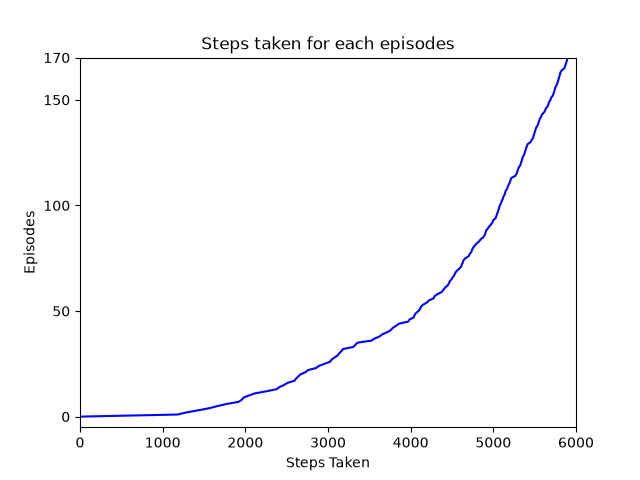
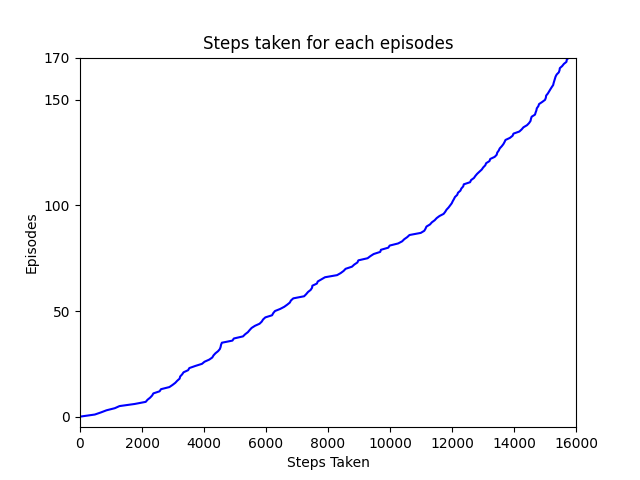
implemented stochastic windy gridworld
- Experimenting with pygame to render last episode only (in progress)

diff --git a/temporal_difference/windy_gridworld/windy-gridworld-gym/gymnasium_env/envs/windy_gridworld.py b/temporal_difference/windy_gridworld/windy-gridworld-gym/gymnasium_env/envs/windy_gridworld.py
@@ -25,6 +25,9 @@ class WindyGridWorld(gym.Env):
         self.y_size = y_size
         self.window_size = 512
         self.action = 0
+        self.stochastic = False
+        self.render_path = ""
+        self.last_episode = 0
 
         self.observation_space = spaces.Dict(
             {
@@ -105,9 +108,12 @@ class WindyGridWorld(gym.Env):
         # For the effects of being in certain x-axis that causes increase in y-axis
         env_influence = np.array([0, 0])
         if self._agent_location[1] in [3, 4, 5, 8]:
-            env_influence = np.array([-1, 0])
+            env_influence += np.array([-1, 0])
         elif self._agent_location[1] in [6, 7]:
-            env_influence = np.array([-2, 0])
+            env_influence += np.array([-2, 0])
+        if self.stochastic:
+            # add stochastic wind if true
+            env_influence += np.array([np.random.randint(-1, 2), 0])
 
         # Move agent as follows based off action and env influence
         self._agent_location = np.clip(
@@ -132,25 +138,25 @@ class WindyGridWorld(gym.Env):
 
     def arrow_flipper(self, arrow, direction):
         match direction:
-            case 1: # Down
+            case 1:  # Down
                 arrow[0][1] += self.pix_square_size[1]
-            case 2: # Left
+            case 2:  # Left
                 arrow[1][0] -= self.pix_square_size[0] / 2
                 arrow[1][1] += self.pix_square_size[1] / 2
-            case 3: # Right
+            case 3:  # Right
                 arrow[2][0] += self.pix_square_size[0] / 2
                 arrow[2][1] += self.pix_square_size[1] / 2
-            case 4: # Left-up
+            case 4:  # Left-up
                 arrow[1][0] -= self.pix_square_size[0]
                 arrow[1][1] -= self.pix_square_size[1] / 2
-            case 5: # Right-up
+            case 5:  # Right-up
                 arrow[2][0] += self.pix_square_size[0]
                 arrow[2][1] -= self.pix_square_size[1] / 2
-            case 6: # Left-down
+            case 6:  # Left-down
                 arrow[0][1] += self.pix_square_size[1]
                 arrow[1][0] -= self.pix_square_size[0]
                 arrow[1][1] += self.pix_square_size[1] / 2
-            case 7: # Right-down
+            case 7:  # Right-down
                 arrow[0][1] += self.pix_square_size[1]
                 arrow[2][0] += self.pix_square_size[0]
                 arrow[2][1] += self.pix_square_size[1] / 2
@@ -204,23 +210,33 @@ class WindyGridWorld(gym.Env):
 
         # Draw arrow NOTE: Current_location is default pointing up
         current_location = [
-            [(self.pix_square_size[0] * (self._agent_location[1] + 1)) - self.pix_square_size[0]/2, self.pix_square_size[1] * self._agent_location[0]], # Top point
-            [(self.pix_square_size[0] * (self._agent_location[1] + 1)), self.pix_square_size[1] * (self._agent_location[0] + 1) - self.pix_square_size[1]/2], # Right point
-            [self.pix_square_size[0] * (self._agent_location[1]), (self.pix_square_size[1] * (self._agent_location[0] + 1)) - self.pix_square_size[1]/2], # Left point
-            ]
-        
+            [
+                (self.pix_square_size[0] * (self._agent_location[1] + 1))
+                - self.pix_square_size[0] / 2,
+                self.pix_square_size[1] * self._agent_location[0],
+            ],  # Top point
+            [
+                (self.pix_square_size[0] * (self._agent_location[1] + 1)),
+                self.pix_square_size[1] * (self._agent_location[0] + 1)
+                - self.pix_square_size[1] / 2,
+            ],  # Right point
+            [
+                self.pix_square_size[0] * (self._agent_location[1]),
+                (self.pix_square_size[1] * (self._agent_location[0] + 1))
+                - self.pix_square_size[1] / 2,
+            ],  # Left point
+        ]
+
         if self.action == 8:
             pygame.draw.circle(
                 canvas,
                 (0, 0, 255),
                 (self._agent_location[::-1] + 0.5) * self.pix_square_size,
-                (self.pix_square_size[0] + self.pix_square_size[1]) / 8
+                (self.pix_square_size[0] + self.pix_square_size[1]) / 8,
             )
         else:
             pygame.draw.polygon(
-                canvas,
-                (0, 0, 255),
-                self.arrow_flipper(current_location, self.action)
+                canvas, (0, 0, 255), self.arrow_flipper(current_location, self.action)
             )
 
         # Gridlines
@@ -237,7 +253,7 @@ class WindyGridWorld(gym.Env):
             pygame.draw.line(
                 canvas,
                 0,
-                (0 ,self.pix_square_size[1] * y),
+                (0, self.pix_square_size[1] * y),
                 (self.window_size, self.pix_square_size[1] * y),
                 width=3,
             )
@@ -254,6 +270,8 @@ class WindyGridWorld(gym.Env):
             return np.transpose(
                 np.array(pygame.surfarray.pixels3d(canvas)), axes=(1, 0, 2)
             )
+        if episode == self.last_episode - 1:
+            pygame.image.save(canvas, self.render_path / "final_episode")
 
     # Just in case to close the env
     def close(self):

diff --git a/temporal_difference/windy_gridworld/Windy_gridworld.py b/temporal_difference/windy_gridworld/Windy_gridworld.py
@@ -22,11 +22,17 @@ def TD_Sarsa(
     gamma=1,  # Next state-action pair weighing/ discounting-factor
     epsilon=0.1,  # greedy-epsilon policy
     render=None,
+    render_path="",
+    stochastic=False,
 ):
     np.random.seed(seed)
     random.seed(seed)
 
     env.render_mode = render
+    env.render_path = render_path
+    env.stochastic = stochastic
+    env.last_episode = episodes
+
     n_states_x = env.x_size
     n_states_y = env.y_size
     n_actions = env.action_space.n
@@ -59,14 +65,17 @@ def TD_Sarsa(
             # Sarsa update
             if not (done or truncated):
                 if np.random.random() < epsilon:
-                    next_q = q_table[next_state["agent"][0], next_state["agent"][1]][np.random.randint(0, n_actions)]
+                    next_q = q_table[next_state["agent"][0], next_state["agent"][1]][
+                        np.random.randint(0, n_actions)
+                    ]
                 else:
                     next_q = np.max(
                         q_table[next_state["agent"][0], next_state["agent"][1]]
                     )
             else:
+                # q value for terminal step
                 next_q = 0
-            
+
             q_table[state["agent"][0], state["agent"][1], action] += alpha * (
                 reward
                 + (gamma * next_q)
@@ -82,15 +91,13 @@ def TD_Sarsa(
     return episodes_dict
 
 
-# return {"episodes taken": episodes}
-
-
 def main():
     n_runs = 10
     episodes = 1000
     alpha = 0.5  # delta learning-rate
     gamma = 1  # Next state-action pair weighing/ discounting-factor
     epsilon = 0.1  # greedy-epsilon policy
+    render_path = Path(__file__).resolve().parent 
 
     # Generate different seeds for each run
     seeds = [BASE_RANDOM_SEED + i for i in range(n_runs)]
@@ -110,6 +117,8 @@ def main():
             gamma=gamma,
             epsilon=epsilon,
             render="human",
+            render_path=render_path
+            stochastic=True,
         )
         results_list.append(results)
         # Extract keys and values
@@ -126,9 +135,6 @@ def main():
         plt.yticks([0, 50, 100, 150, 170])
         plt.title("Steps taken for each episodes")
         plt.savefig(f"run_{i + 1:04d}.png")
-
-        # pprint.pprint(results, indent=4, width=60, sort_dicts=True)
-    # print(f"all runs completed, all results:{results_list}")
 
 
 if __name__ == "__main__":
